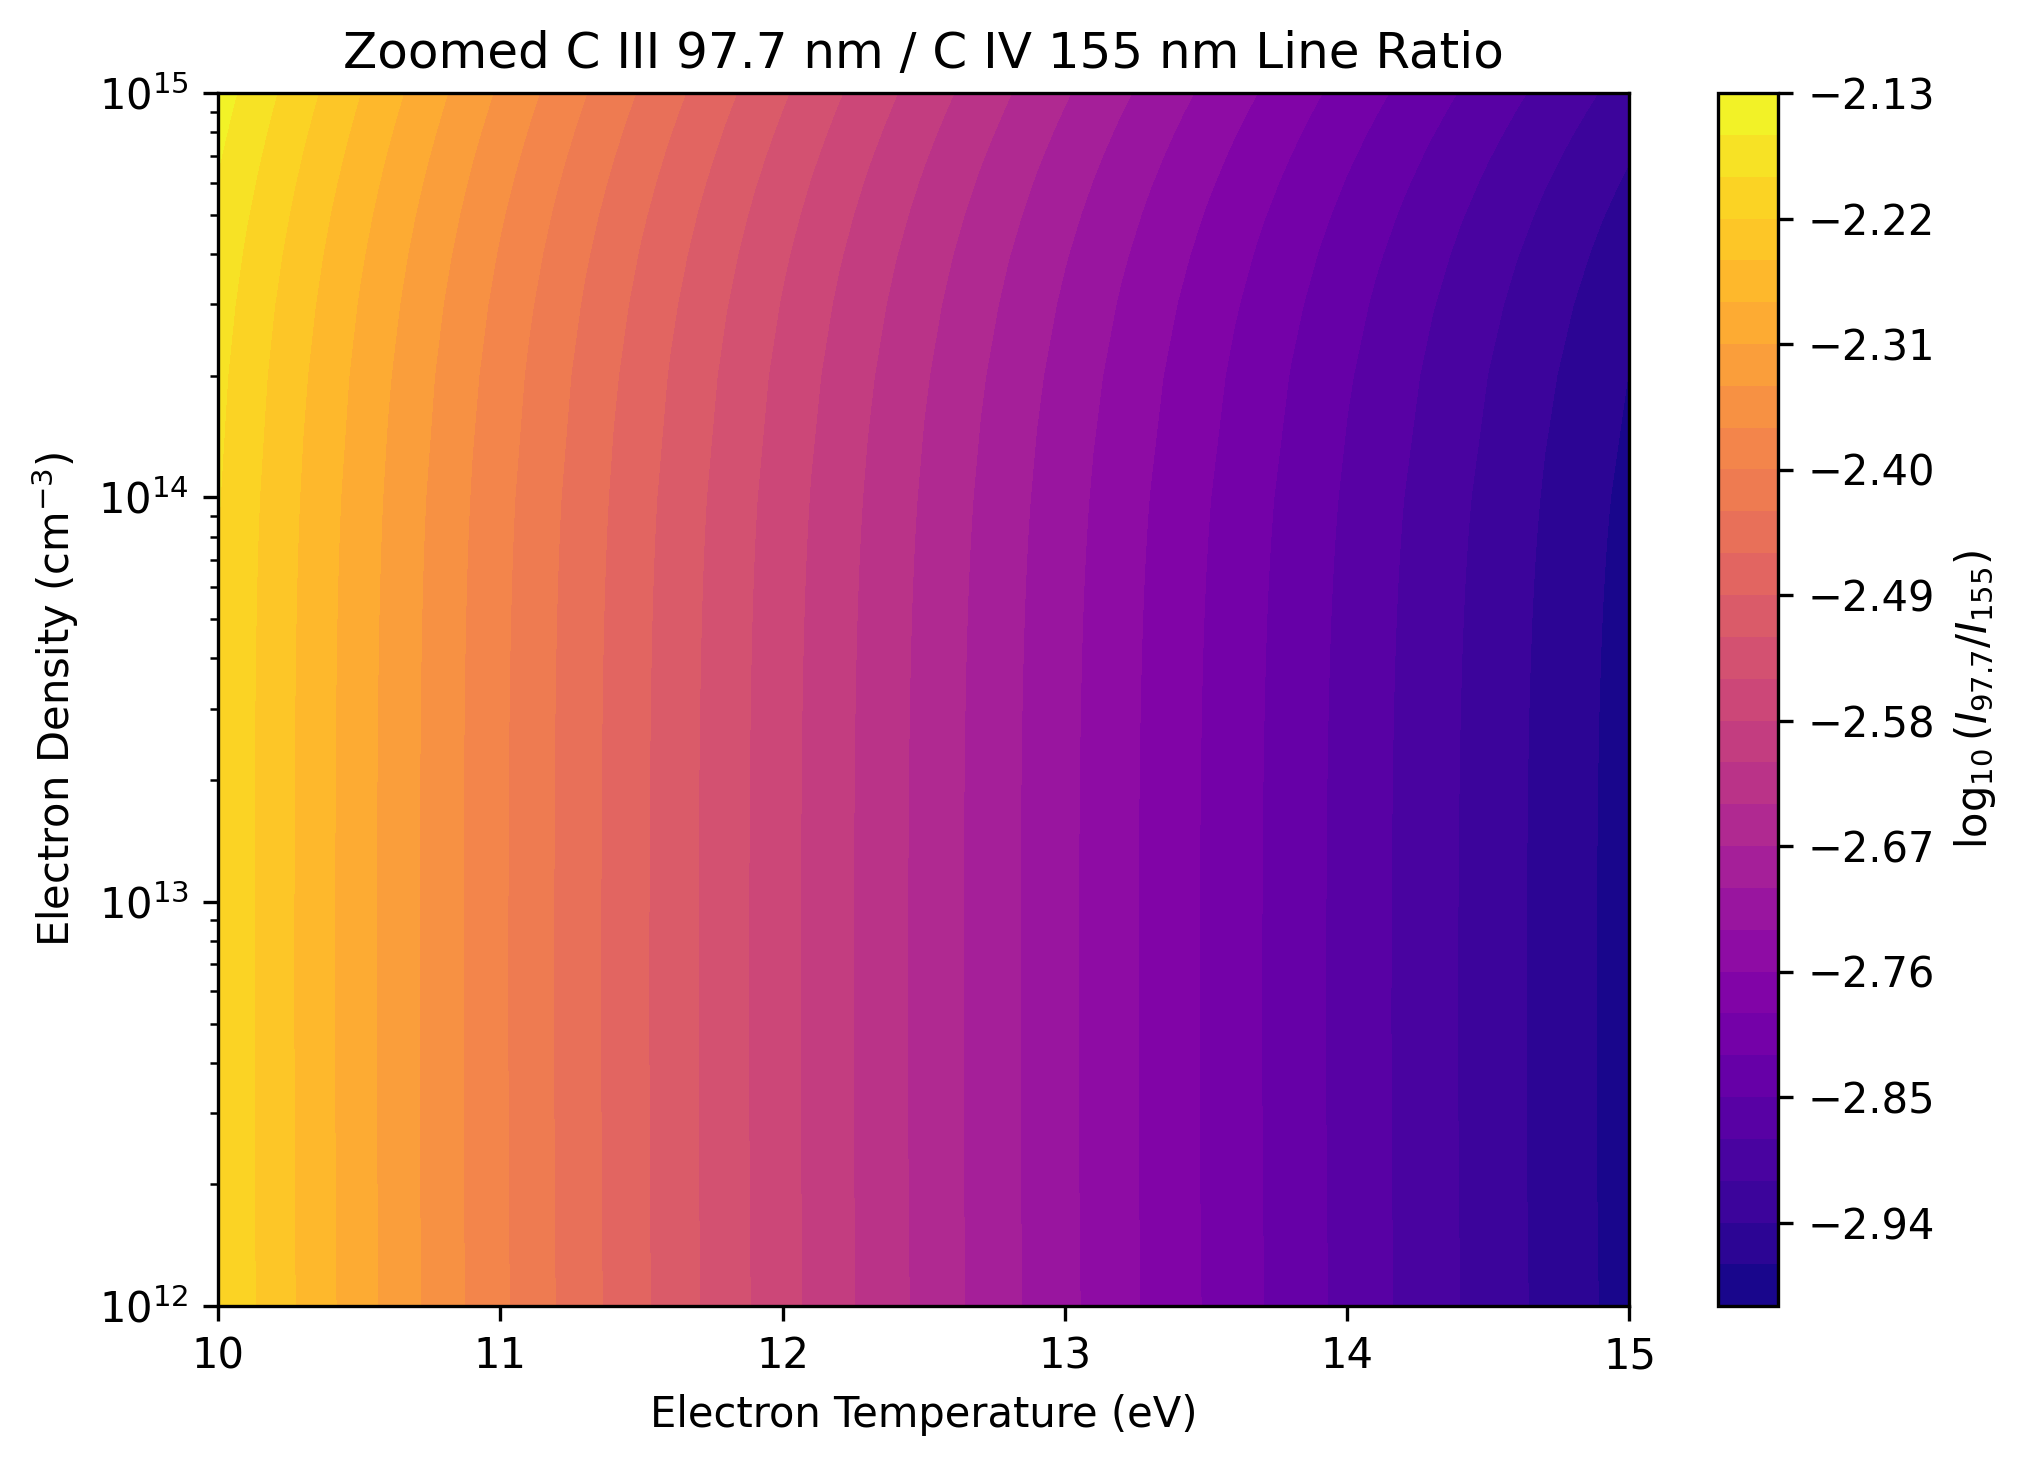
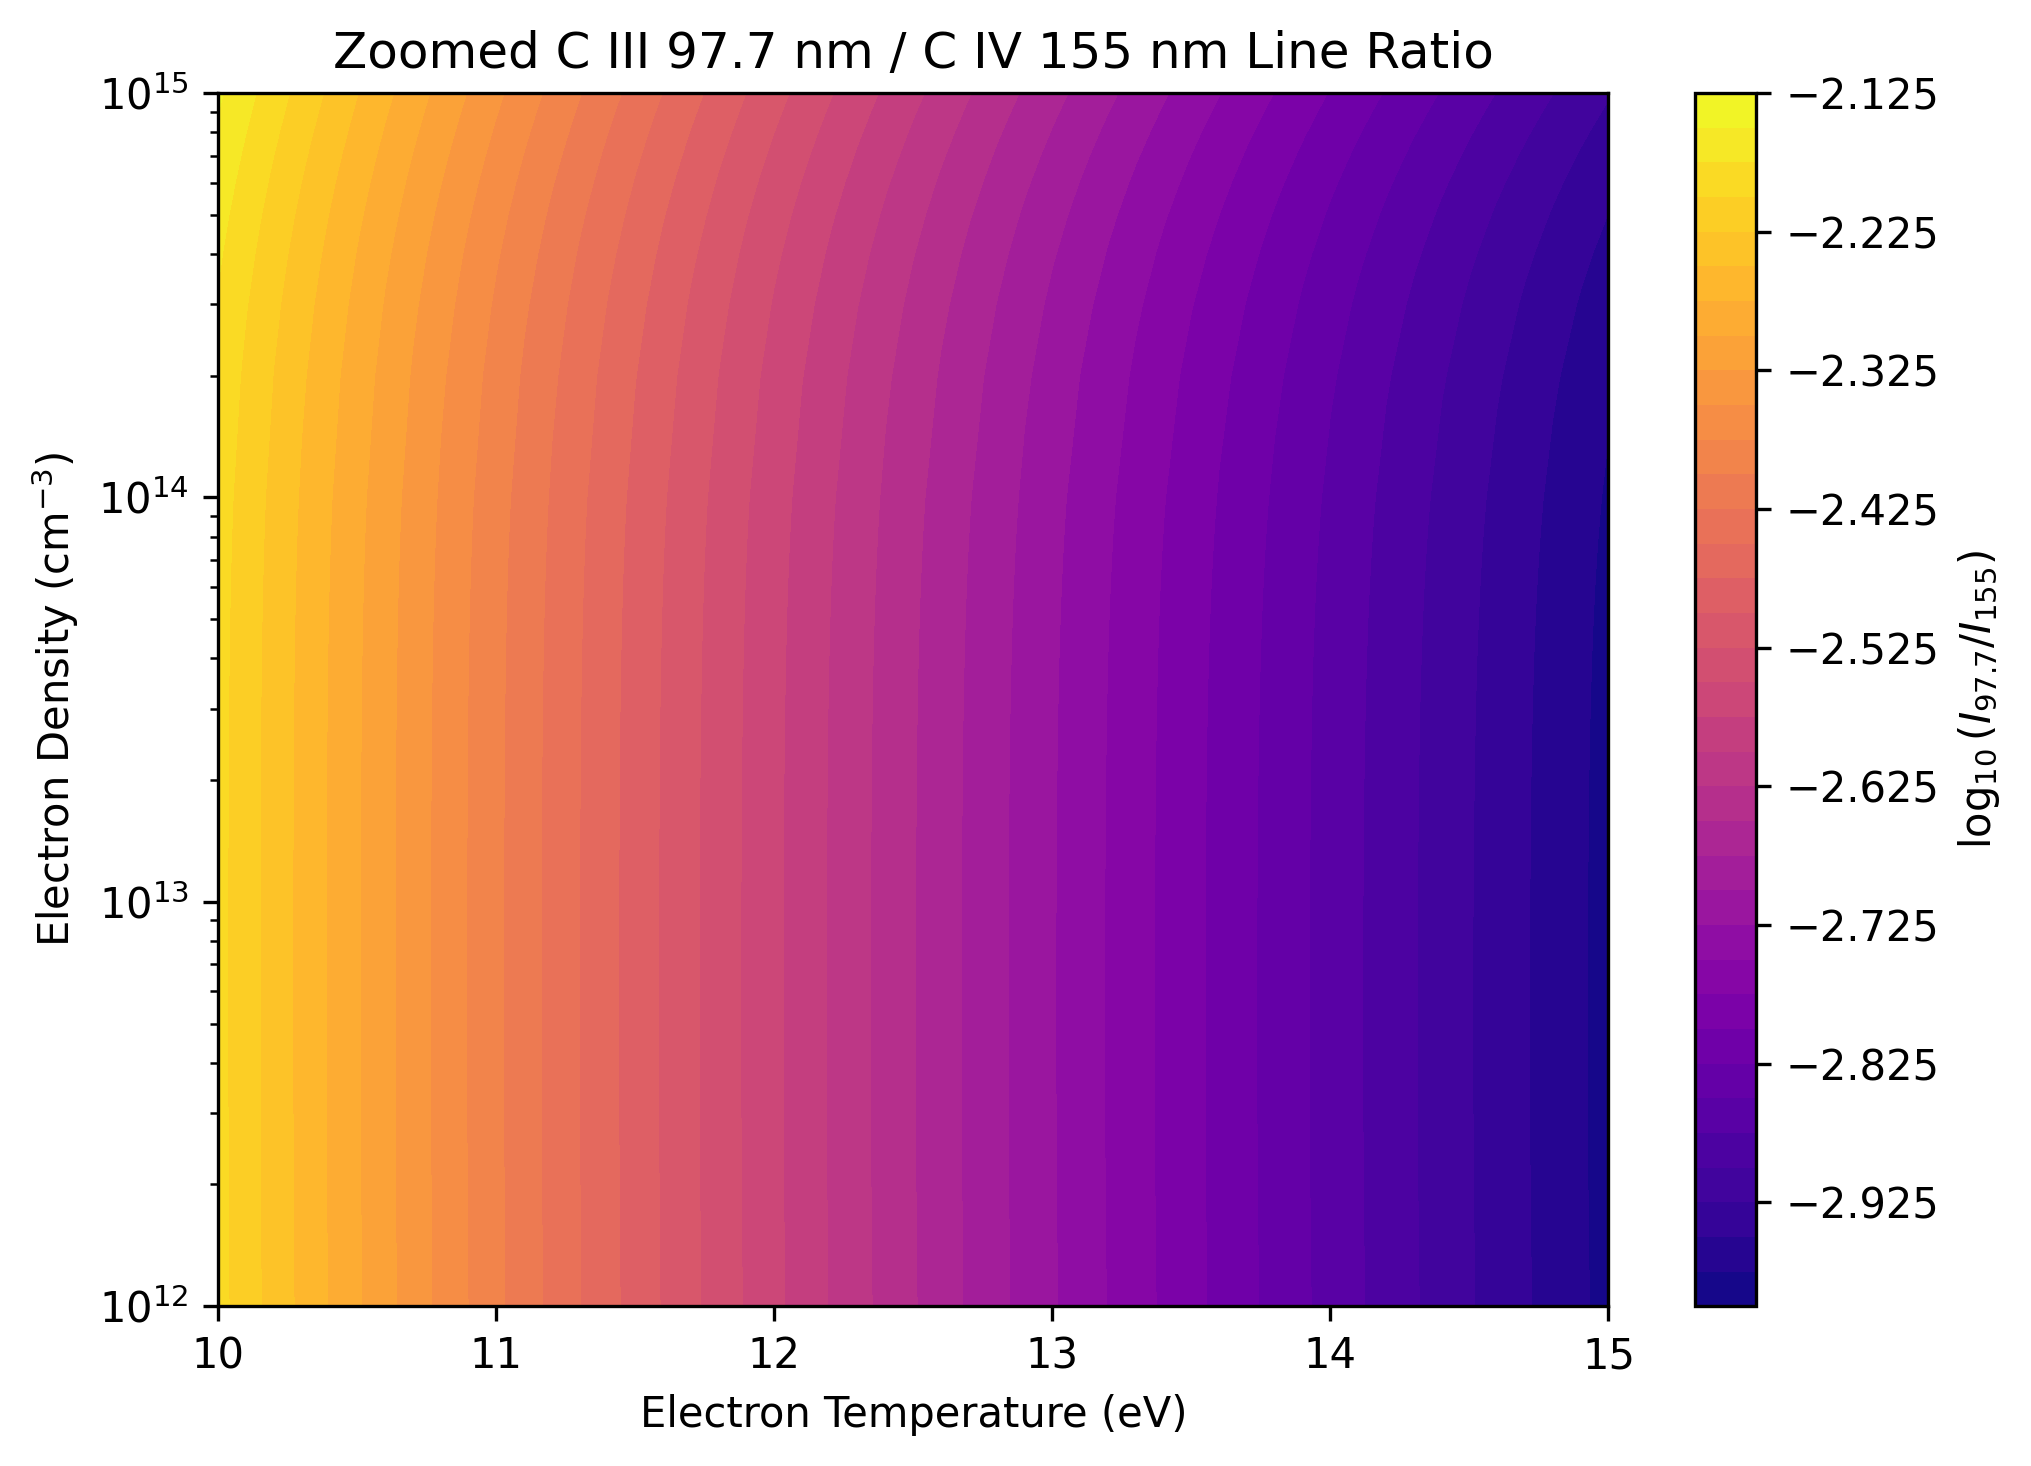
Edits
Edits to 3D plotting program.

diff --git a/scripts/temp-dens-intens-plot-v1.0.py b/scripts/temp-dens-intens-plot-v1.0.py
@@ -12,7 +12,9 @@ Outline:
     5. Calculate the selected spectral line intensity for every temperature-density combination.
     6. Store the calculated intensities in a two-dimensional array.
     7. Generate a three-dimensional surface plot of the results.
-    8. Formate and display the completed figure.
+    8. Generate a two-dimensional plot to view side profile of density variation.
+    9. Generate a zoomed-in "heat map" to show density variation (since it's small).
+    10. Generate an interactive HTML page of the three-dimensional plot. 
     
     
 Sections:
@@ -22,6 +24,25 @@ Sections:
     4. Retrive ionization balance-output: ColRadPy constructs the ionization balance matrix by passing in all the variables supplied to it and then it solves the no source ionization balance problem. No source means there's not a continuous injection of fresh carbon into the system. Stored in the ion_bal object are the fractions (like f_CIII(T_e, n_e)).
     5. Build the C III CR model: we need to know how bright the lines from one C III ion are. To get this information, we solve the CR model, which tells us how many ions are sitting in each excitied level under the specified plasma conditions. It's from this information that we can find the emitted light.
     6. Locate the C III 97.7 nm transition: Need to know which transition in the wave_air output from the CR model corresponds to the 97.7 nm transition.
+    7. Retrieve ionization balance output: Extracts the steady-state ion fractions from the solved ionization balance. These fractions represent the relative abundance of each metastable charge state and provide the population weights needed when calculating spectral emissivities
+    8. Build the C III CR model: Constructs and solves the collisional-radiative model for C III. This determines the photon emissivity coefficients (PECs) describing how efficiently a single C III ion emits each spectral line through electron-impact excitation and recombination.
+    9. Locate the C III 97.7 nm transition: Searches the list of wavelengths produced by the CR model and identifies the transition closest to 97.7 nm. The resulting transition index is used to extract the correct photon emissivity coefficients from the full PEC array.
+    10. Extract the C III 97.7 nm PECs: Extracts the photon emissivity coefficients associated with the selected transition. These coefficients contain separate contributions from excitation of each metastable state and from recombination into C III.
+    11. Extract populations that drive the C III line: Retrieves the ionization-balance populations corresponding to the metastable states that contribute to the selected C III transition. These populations provide the weighting factors applied to each PEC contribution.
+    12. Construct the C III emissivity coefficient: Multiplies each photon emissivity coefficient by the appropriate metastable population and sums the individual excitation and recombination contributions to obtain the total C III 97.7 nm emissivity coefficient.
+    13. Build the C IV CR model: Constructs and solves the collisional-radiative model for C IV. This determines the photon emissivity coefficients (PECs) describing how efficiently a single C IV ion emits each spectral line through electron-impact excitation and recombination.
+    14. Locate the C IV 155 nm transition: Searches the list of wavelengths produced by the CR model and identifies the transition closest to 155 nm. The resulting transition index is used to extract the correct photon emissivity coefficients from the full PEC array.
+    15. 
+    16. 
+    17. 
+    18. Compute the C III / C IV line ratio: Computes the C III/C IV intensity ratio at every temperature-density point while avoiding division by zero in regions where the C IV emissivity is negligible.
+    19. Create a ratio array for visualization: Removes physically meaningless ratios that arise when both spectral lines have extremely small emissivities. The masking is applied only for visualization and does not alter the underlying calculated line ratio.
+    20. Create mesh grids for 3D plotting: Converts the one-dimensional temperature and density arrays into two-dimensional coordinate grids required for surface plotting.
+    21. Logarithmic line ratio for visualization: Converts the line ratio to base-10 logarithmic scale to improve visualization over the wide dynamic range.
+    22. 3D surface plot: Generates a three-dimensional surface showing the dependence of the C III/C IV line ratio on electron temperature and density.
+    23. 
+    24.
+    25. Generate an interactive HTML page for the 3D plot using Plotly. 
     
     
 Author: Ryan Rauenzahn
@@ -32,6 +53,7 @@ Date: 07/14/2026
 from pathlib import Path
 import numpy as np
 import matplotlib.pyplot as plt
+import plotly.graph_objects as go
 from colradpy import colradpy
 from colradpy.ionization_balance_class import ionization_balance
 
@@ -76,10 +98,6 @@ metas = [
     np.array([0]),
 ]
 
-# Physical Constants
-
-EV_TO_ERG = 1.60218e-12
-
 #============================================================
 # File Check
 # ============================================================
@@ -116,8 +134,6 @@ ion_bal.solve_time_independent()
 
 pops_ss = ion_bal.data["processed"]["pops_ss"]
 
-population_sum = np.sum(pops_ss, axis=0)
-
 # ============================================================
 # Build the C III CR model
 # ============================================================
@@ -135,20 +151,6 @@ ciii = colradpy(
 
 ciii.solve_cr()
 
-
-# ============================================================
-# Inspect the C III collisional-radiative model
-# ============================================================
-
-ciii.data["processed"].keys()
-ciii.data["processed"]["pecs"].shape
-ciii.data["processed"]["wave_air"].shape
-print("\n--- C III object ---")
-print(ciii.data.keys())
-
-print("\n--- C III processed quantities ---")
-print(ciii.data["processed"].keys())
-
 # ============================================================
 # Locate the C III 97.7 nm transition
 # ============================================================
@@ -165,25 +167,9 @@ print("Closest wavelength:", wave_air[ciii_line_index], "nm")
 print("Transition index:", ciii_line_index)
 
 # ============================================================
-# Inspect the PEC array
+# Extract the C III 97.7 nm PECs
 # ============================================================
-
 pecs = ciii.data["processed"]["pecs"]
-
-print("\n--- PEC array ---")
-print("Shape:", pecs.shape)
-print("Dimensions:", pecs.ndim)
-print("\nDriving populations:")
-print(ciii.data["processed"]["driving_populations_norm"])
-print("\nPEC levels shape:")
-print(ciii.data["processed"]["pec_levels"].shape)
-
-print("\nFirst five PEC level entries:")
-print(ciii.data["processed"]["pec_levels"][:5])
-
-# ============================================================
-# Inspect the C III 97.7 nm PEC contributions
-# ============================================================
 
 ciii_line_pecs = pecs[ciii_line_index, :, :, :]
 
@@ -235,7 +221,7 @@ civ = colradpy(
 civ.solve_cr()
 
 # ============================================================
-# Locate the C IV line near 155 nm
+# Locate the C IV 155 nm transition
 # ============================================================
 
 target_wave_civ = 155.0
@@ -296,90 +282,6 @@ line_ratio = np.divide(
 )
 
 # ============================================================
-# Inspect the extreme line-ratio values
-# ============================================================
-
-max_ratio_flat_index = np.nanargmax(line_ratio)
-max_ratio_index = np.unravel_index(
-    max_ratio_flat_index,
-    line_ratio.shape,
-)
-
-max_temp_index, max_density_index = max_ratio_index
-
-# ============================================================
-# Count grid points above trial emissivity thresholds
-# ============================================================
-
-thresholds = [
-    1e-30,
-    1e-25,
-    1e-20,
-    1e-15,
-    1e-12,
-]
-
-for threshold in thresholds:
-    ciii_count = np.sum(
-        ciii_97_emissivity_coeff > threshold
-    )
-
-    civ_count = np.sum(
-        civ_155_emissivity_coeff > threshold
-    )
-
-    both_count = np.sum(
-        (ciii_97_emissivity_coeff > threshold)
-        & (civ_155_emissivity_coeff > threshold)
-    )
-
-
-# ============================================================
-# Test relative emissivity cutoffs
-# ============================================================
-
-relative_cutoffs = [
-    1e-8,
-    1e-6,
-    1e-4,
-    1e-3,
-]
-
-print("\n--- Relative emissivity cutoff tests ---")
-
-for cutoff in relative_cutoffs:
-
-    ciii_threshold = (
-        cutoff * np.nanmax(ciii_97_emissivity_coeff)
-    )
-
-    civ_threshold = (
-        cutoff * np.nanmax(civ_155_emissivity_coeff)
-    )
-
-    valid_mask = (
-        (ciii_97_emissivity_coeff > ciii_threshold)
-        & (civ_155_emissivity_coeff > civ_threshold)
-    )
-
-    masked_ratio = np.where(
-        valid_mask,
-        line_ratio,
-        np.nan,
-    )
-
-    print(f"\nRelative cutoff: {cutoff:.0e}")
-    print("Valid points:", np.sum(valid_mask))
-    print(
-        "Minimum ratio:",
-        f"{np.nanmin(masked_ratio):.3e}",
-    )
-    print(
-        "Maximum ratio:",
-        f"{np.nanmax(masked_ratio):.3e}",
-    )
-
-# ============================================================
 # Create a ratio array for visualization
 # ============================================================
 
@@ -404,47 +306,6 @@ line_ratio_plot = np.where(
     np.nan,
 )
 
-print("\n--- Plotting mask ---")
-print("Relative cutoff:", relative_cutoff)
-print("C III threshold:", f"{ciii_plot_threshold:.3e}")
-print("C IV threshold:", f"{civ_plot_threshold:.3e}")
-print("Valid points:", np.sum(plot_mask))
-print("Masked points:", np.size(plot_mask) - np.sum(plot_mask))
-print(
-    "Displayed ratio range:",
-    f"{np.nanmin(line_ratio_plot):.3e}",
-    "to",
-    f"{np.nanmax(line_ratio_plot):.3e}",
-)
-
-# ============================================================
-# Visualize plotting mask
-# ============================================================
-""" 
-plt.figure(figsize=(7, 5))
-
-plt.imshow(
-    plot_mask,
-    origin="lower",
-    aspect="auto",
-    extent=[
-        density_grid[0],
-        density_grid[-1],
-        temp_grid[0],
-        temp_grid[-1],
-    ],
-)
-
-plt.xscale("log")
-
-plt.xlabel("Electron density (cm$^{-3}$)")
-plt.ylabel("Electron temperature (eV)")
-plt.title("Points included in ratio plot")
-
-plt.colorbar(label="Included (1) / Masked (0)")
-
-plt.show()
- """
 # ============================================================
 # Create mesh grids for 3D plotting
 # ============================================================
@@ -454,38 +315,18 @@ density_mesh, temp_mesh = np.meshgrid(
     temp_grid,
 )
 
-print("\n--- Mesh grid shapes ---")
-print("Temperature mesh:", temp_mesh.shape)
-print("Density mesh:", density_mesh.shape)
-print("Ratio array:", line_ratio_plot.shape)
-
 # ============================================================
 # Logarithmic line ratio for visualization
 # ============================================================
 
 log_line_ratio = np.log10(line_ratio_plot)
 
-print("\n--- Log ratio range ---")
-print("Minimum:", np.nanmin(log_line_ratio))
-print("Maximum:", np.nanmax(log_line_ratio))
-
 # ============================================================
-# First 3D surface plot
+# 3D surface plot
 # ============================================================
-
-from mpl_toolkits.mplot3d import Axes3D
 
 fig = plt.figure(figsize=(10, 7))
 ax = fig.add_subplot(111, projection="3d")
-
-surface = ax.plot_surface(
-    temp_mesh,
-    np.log10(density_mesh),
-    log_line_ratio,
-    cmap="viridis",
-    linewidth=0,
-    antialiased=True,
-)
 
 surface = ax.plot_surface(
     temp_mesh,
@@ -569,7 +410,6 @@ for target_density in selected_densities:
 plt.xlabel("Electron temperature (eV)")
 plt.ylabel(r"$I_{97.7}/I_{155}$")
 plt.title("C III 97.7 nm / C IV 155 nm Line Ratio")
-
 plt.grid(True, which="both", alpha=0.3)
 plt.legend()
 
@@ -589,7 +429,7 @@ contour = plt.contourf(
     temp_grid[temp_mask],
     density_grid,
     log_line_ratio[temp_mask, :].T,
-    levels=30,
+    levels=40,
     cmap="plasma",
 )
 
@@ -614,6 +454,55 @@ plt.savefig(
 )
 
 plt.show()
+
+# ============================================================
+# Interactive Plotly 3D surface
+# ============================================================
+
+fig = go.Figure(
+    data=[
+        go.Surface(
+            x=temp_mesh,
+            y=np.log10(density_mesh),
+            z=log_line_ratio,
+            colorscale="Plasma",
+            colorbar=dict(
+                title="log₁₀(Line Ratio)"
+            ),
+        )
+    ]
+)
+
+fig.update_layout(
+
+    title="C III 97.7 nm / C IV 155 nm Line Ratio",
+
+    scene=dict(
+
+        xaxis_title="Electron Temperature (eV)",
+
+        yaxis_title="log₁₀(Electron Density [cm⁻³])",
+
+        zaxis_title="log₁₀(I97.7/I155)",
+
+        camera=dict(
+            eye=dict(
+                x=1.6,
+                y=-1.8,
+                z=1.1,
+            )
+        ),
+    ),
+
+    width=1000,
+    height=700,
+)
+
+fig.write_html(
+    "CIII_CIV_LineRatio_Interactive.html"
+)
+
+fig.show()
 
 # ============================================================
 # Main